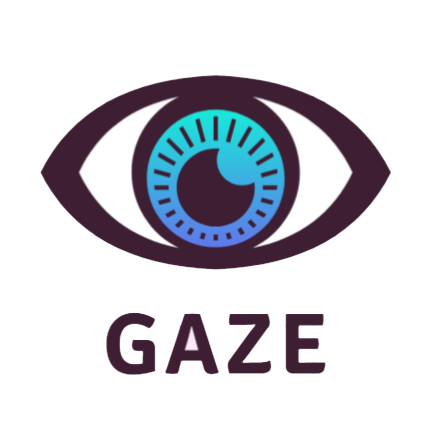
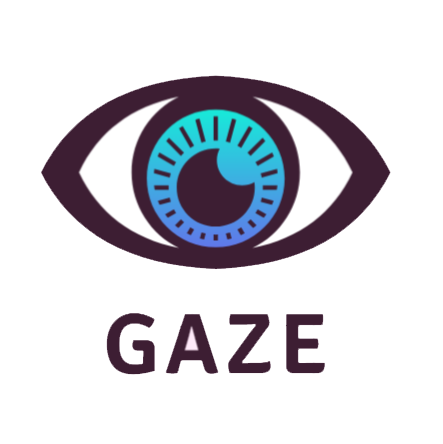
Responsive navbar

diff --git a/resources/views/components/application-logo.blade.php b/resources/views/components/application-logo.blade.php
@@ -1,3 +1,1 @@
-<svg viewBox="0 0 316 316" xmlns="http://www.w3.org/2000/svg" {{ $attributes }}>
-    <path d="M305.8 81.125C305.77 80.995 305.69 80.885 305.65 80.755C305.56 80.525 305.49 80.285 305.37 80.075C305.29 79.935 305.17 79.815 305.07 79.685C304.94 79.515 304.83 79.325 304.68 79.175C304.55 79.045 304.39 78.955 304.25 78.845C304.09 78.715 303.95 78.575 303.77 78.475L251.32 48.275C249.97 47.495 248.31 47.495 246.96 48.275L194.51 78.475C194.33 78.575 194.19 78.725 194.03 78.845C193.89 78.955 193.73 79.045 193.6 79.175C193.45 79.325 193.34 79.515 193.21 79.685C193.11 79.815 192.99 79.935 192.91 80.075C192.79 80.285 192.71 80.525 192.63 80.755C192.58 80.875 192.51 80.995 192.48 81.125C192.38 81.495 192.33 81.875 192.33 82.265V139.625L148.62 164.795V52.575C148.62 52.185 148.57 51.805 148.47 51.435C148.44 51.305 148.36 51.195 148.32 51.065C148.23 50.835 148.16 50.595 148.04 50.385C147.96 50.245 147.84 50.125 147.74 49.995C147.61 49.825 147.5 49.635 147.35 49.485C147.22 49.355 147.06 49.265 146.92 49.155C146.76 49.025 146.62 48.885 146.44 48.785L93.99 18.585C92.64 17.805 90.98 17.805 89.63 18.585L37.18 48.785C37 48.885 36.86 49.035 36.7 49.155C36.56 49.265 36.4 49.355 36.27 49.485C36.12 49.635 36.01 49.825 35.88 49.995C35.78 50.125 35.66 50.245 35.58 50.385C35.46 50.595 35.38 50.835 35.3 51.065C35.25 51.185 35.18 51.305 35.15 51.435C35.05 51.805 35 52.185 35 52.575V232.235C35 233.795 35.84 235.245 37.19 236.025L142.1 296.425C142.33 296.555 142.58 296.635 142.82 296.725C142.93 296.765 143.04 296.835 143.16 296.865C143.53 296.965 143.9 297.015 144.28 297.015C144.66 297.015 145.03 296.965 145.4 296.865C145.5 296.835 145.59 296.775 145.69 296.745C145.95 296.655 146.21 296.565 146.45 296.435L251.36 236.035C252.72 235.255 253.55 233.815 253.55 232.245V174.885L303.81 145.945C305.17 145.165 306 143.725 306 142.155V82.265C305.95 81.875 305.89 81.495 305.8 81.125ZM144.2 227.205L100.57 202.515L146.39 176.135L196.66 147.195L240.33 172.335L208.29 190.625L144.2 227.205ZM244.75 114.995V164.795L226.39 154.225L201.03 139.625V89.825L219.39 100.395L244.75 114.995ZM249.12 57.105L292.81 82.265L249.12 107.425L205.43 82.265L249.12 57.105ZM114.49 184.425L96.13 194.995V85.305L121.49 70.705L139.85 60.135V169.815L114.49 184.425ZM91.76 27.425L135.45 52.585L91.76 77.745L48.07 52.585L91.76 27.425ZM43.67 60.135L62.03 70.705L87.39 85.305V202.545V202.555V202.565C87.39 202.735 87.44 202.895 87.46 203.055C87.49 203.265 87.49 203.485 87.55 203.695V203.705C87.6 203.875 87.69 204.035 87.76 204.195C87.84 204.375 87.89 204.575 87.99 204.745C87.99 204.745 87.99 204.755 88 204.755C88.09 204.905 88.22 205.035 88.33 205.175C88.45 205.335 88.55 205.495 88.69 205.635L88.7 205.645C88.82 205.765 88.98 205.855 89.12 205.965C89.28 206.085 89.42 206.225 89.59 206.325C89.6 206.325 89.6 206.325 89.61 206.335C89.62 206.335 89.62 206.345 89.63 206.345L139.87 234.775V285.065L43.67 229.705V60.135ZM244.75 229.705L148.58 285.075V234.775L219.8 194.115L244.75 179.875V229.705ZM297.2 139.625L253.49 164.795V114.995L278.85 100.395L297.21 89.825V139.625H297.2Z"/>
-</svg>
+<img {{ $attributes->merge(['class']) }} src="{{ asset('images/gaze.png') }}" alt="">

diff --git a/resources/views/welcome.blade.php b/resources/views/welcome.blade.php
@@ -8,25 +8,26 @@
     <title>Gaze</title>
     @vite('resources/css/app.css')
 </head>
-<body class="min-h-screen pt-8 px-16">
+<body class="min-w-[320px] min-h-screen pt-6 px-12 md:pt-8 md:px-16">
     <nav class="flex justify-between items-center whitespace-nowrap">
         <div class="flex items-center">
             <img class="h-16 w-16" src="{{ asset('images/gaze.png') }}" alt="Logo">
-            <div class="border-l-2 border-slate-300 my-4 mx-4">&nbsp;</div>
+            <div class="hidden md:block border-l-2 border-slate-300 my-4 mx-4">&nbsp;</div>
 
-            <div class="space-x-2 text-gray-700">
+            <div class="hidden space-x-2 text-gray-700 md:block">
                 <a href="">Dashboard</a>
                 <a href="">Services</a>
                 <a href="">About</a>
                 <a href="">Contact Us</a>
             </div>
         </div>
-        <div class="space-x-6">
+        <div class="space-x-6 items-center flex">
+            <img class="md:hidden" src="{{ asset('images/svg/menu.svg') }}" alt="">
             @auth
                 <button class="rounded-xl border px-2.5 py-1.5 border-sky-400 hover:text-white hover:bg-sky-400 hover:duration-300">Logout</button>
             @else
-                <a href="/login" class="">Login</a>
-                <a href="/register" class="rounded-xl border px-2.5 py-1.5 border-sky-400 hover:text-white hover:bg-sky-400 hover:duration-300">Sign Up</a>
+                <a href="/login" class="hidden md:block">Login</a>
+                <a href="/register" class="hidden md:block rounded-xl border-2 px-2.5 py-1.5 border-sky-400 hover:text-white hover:bg-sky-400 hover:duration-300">Sign Up</a>
             @endauth
         </div>
     </nav>
